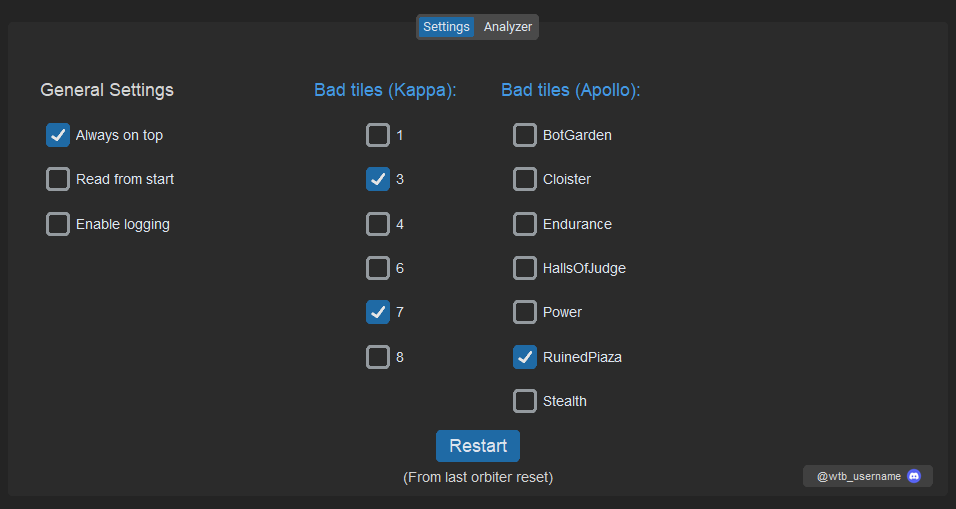
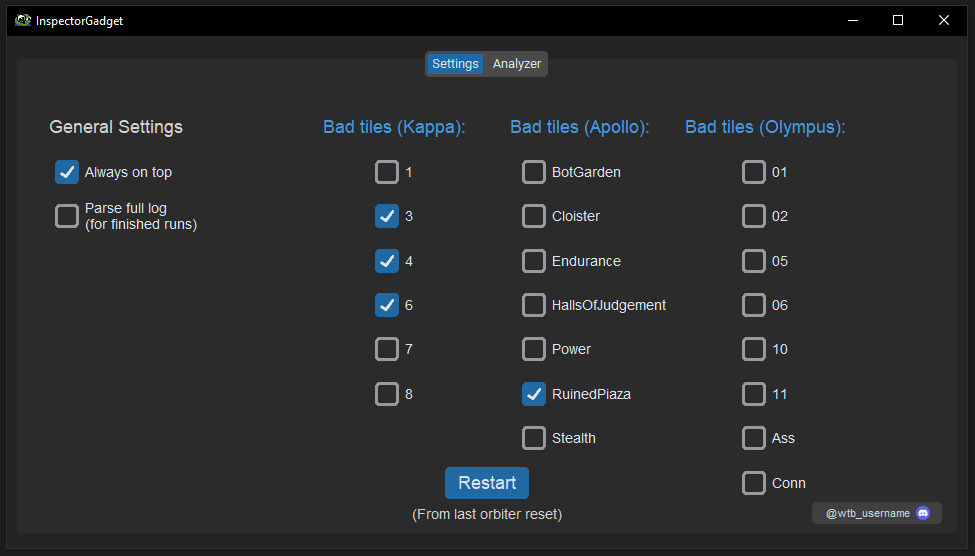
README and Image update

diff --git a/README.md b/README.md
@@ -8,12 +8,14 @@ InspectorGadget can be used to simply look for the correct tiles in various miss
 
 It can also be used to look for specific layouts in disruption missions (currently supported - Kappa and Apollo), and subsequently analyze a full run, displaying times of key inserts, demolyst kills, expected 46 round time, amongst other stats. A chart containing time/round is created at the end of the run and all raw data collected is dumped to a file, allowing users to analyze all the data in minute detail.
 
+Lastly, InspectorGadget can also parse through Cascade map layout, showing a sequence of numbers which indicate the number of exolizers in each room.
+
 ## Using the app
 Simply run the InspectorGadget file, or the built .exe file. This will start parsing EE.log from the end of file, and will display relevant information in the Analyzer tab. 
 
 If you desire to search for a specific disruption layout combination, select the tiles which you consider bad, and those will be discarded by the app. Once a good layout is found, the analyzer window will automatically switch to disruption analysis mode. As mentioned in the description portion before, after extracting from the disruption run, a graph is created in a new tab, and all collected data is written to disk.
 
-In the **Settings** tab, the general settings allow for the window to be always on top, as well as an option do log events to a log file. Furthermore, a "Read from Start" option exists, which allows a fully completed run to be analyzed.
+In the **Settings** tab, the general settings allow for the window to be always on top, as well as an option do log events to a log file. Furthermore, a "Read from Start" option exists, which allows a fully completed disruption run to be analyzed.
 
 ## Getting the app
 Message *@wtb_username* on Discord for the .exe file, or download the source files and use something like pyinstaller to create an executable file yourself, with a command such as `pyinstaller --icon=peepoHmm.ico --onefile --noconsole --add-data="peepoHmm.ico;." --add-data="discordLogo.png;." .\InspectorGadget.py`.
